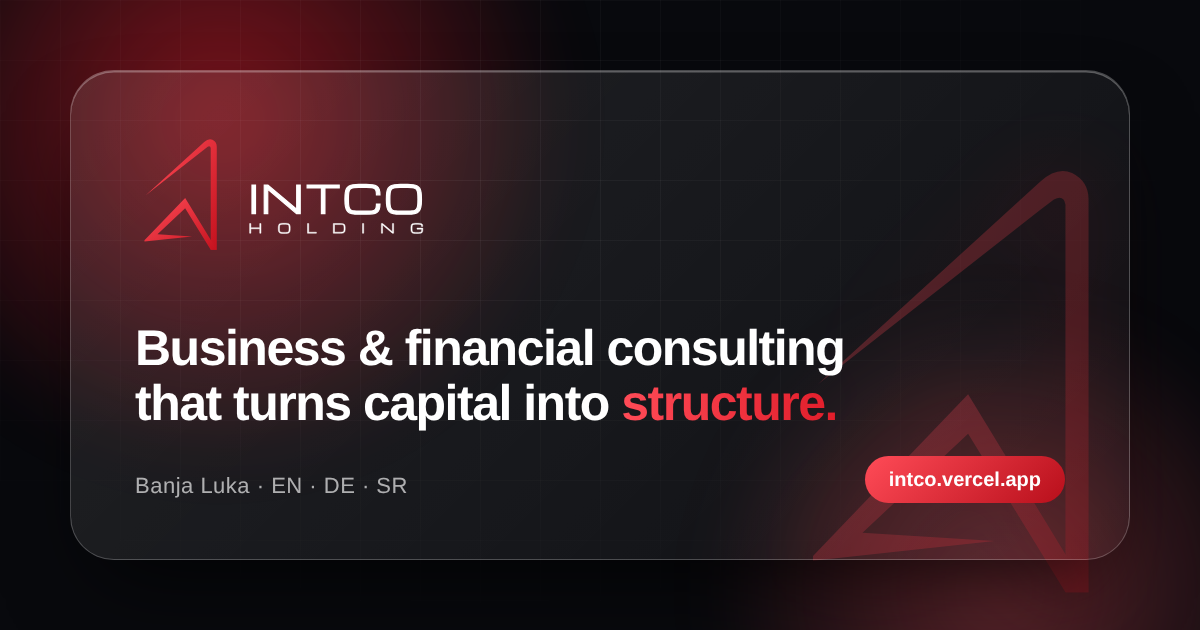
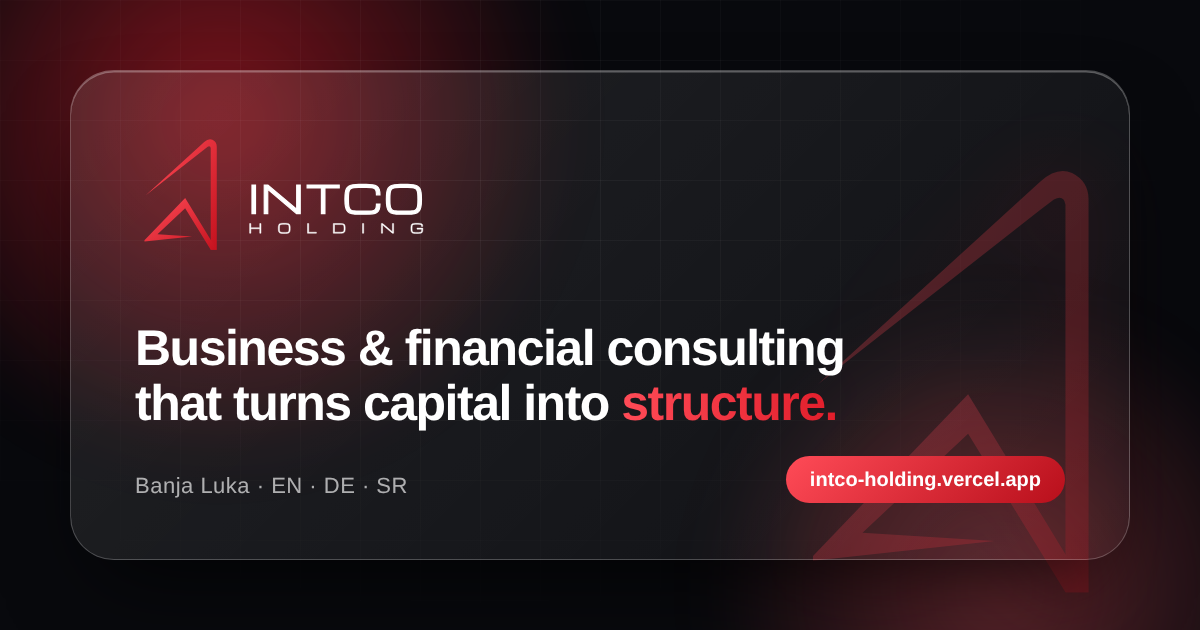
Add files via upload

Changed region(s): [[0.6475, 0.7238, 0.7708, 0.8143]]

diff --git a/index.html b/index.html
@@ -6,8 +6,8 @@
 <meta property="og:type" content="website"><meta property="og:site_name" content="INTCO Holding d.o.o.">
 <meta property="og:title" content="INTCO Holding d.o.o. — Business &amp; Financial Consulting, Banja Luka">
 <meta property="og:description" content="Strategy, financing and execution — for companies in Bosnia and Herzegovina, the region and DACH. In EN, DE and SR.">
-<meta property="og:url" content="https://intco.vercel.app/"><meta property="og:image" content="https://intco.vercel.app/og.png"><meta property="og:image:width" content="1200"><meta property="og:image:height" content="630">
-<meta name="twitter:card" content="summary_large_image"><meta name="twitter:title" content="INTCO Holding d.o.o."><meta name="twitter:image" content="https://intco.vercel.app/og.png">
+<meta property="og:url" content="https://intco-holding.vercel.app/"><meta property="og:image" content="https://intco-holding.vercel.app/og.png"><meta property="og:image:width" content="1200"><meta property="og:image:height" content="630">
+<meta name="twitter:card" content="summary_large_image"><meta name="twitter:title" content="INTCO Holding d.o.o."><meta name="twitter:image" content="https://intco-holding.vercel.app/og.png">
 
 <title>INTCO Holding d.o.o. — Poslovno i finansijsko savjetovanje, Banja Luka</title>
 <meta name="description" content="INTCO Holding d.o.o. — business and financial advisory, Banja Luka.">
